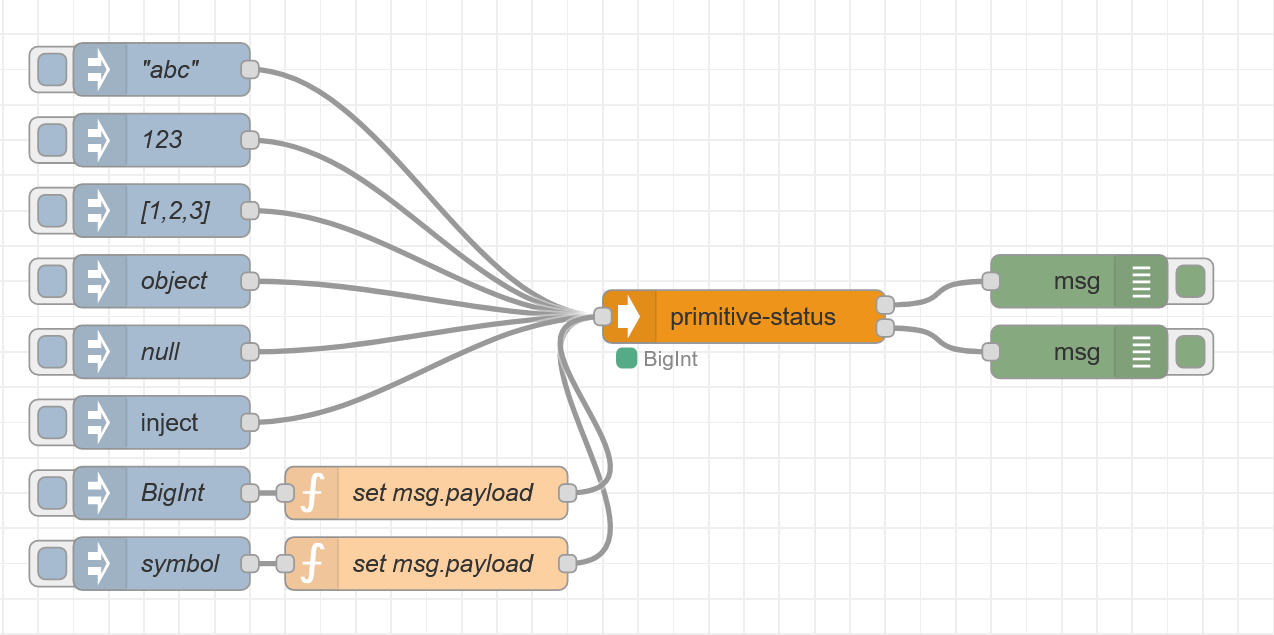
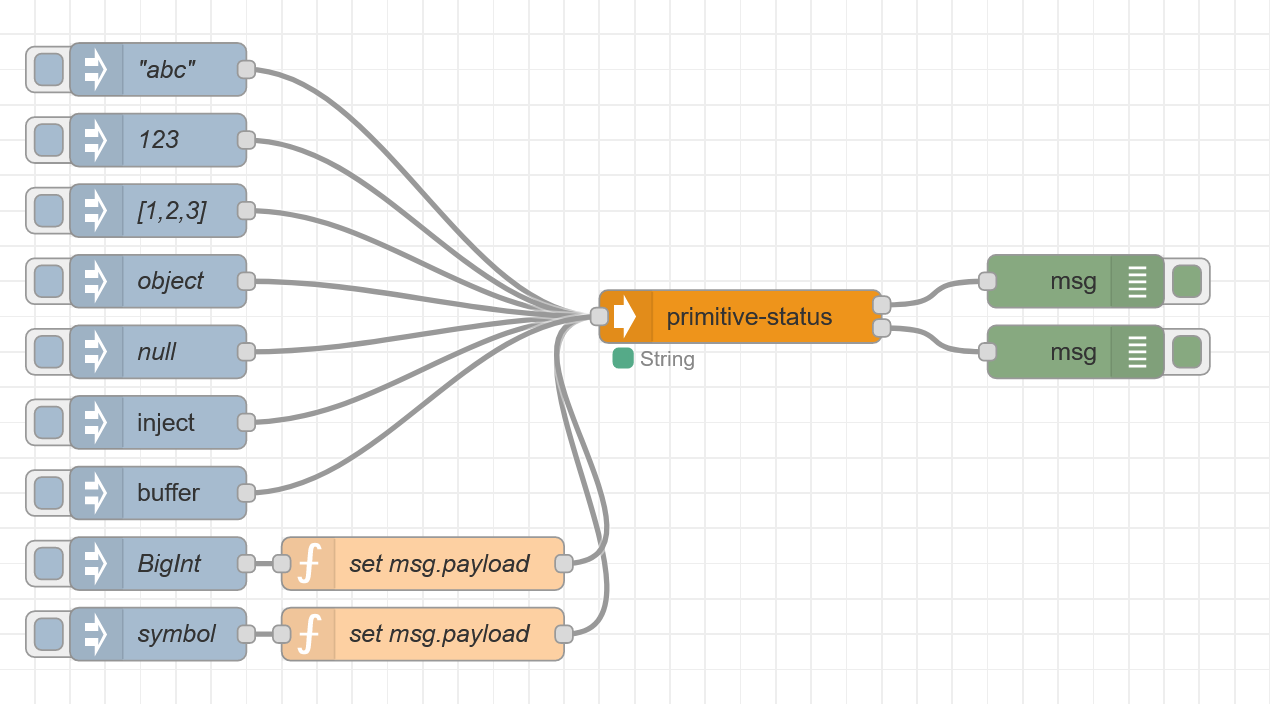
Update to version 1.0.1
Added support for the data type buffer, even though it is not a primitive. Updated examples to reflect changes.

Changed region(s): [[0.0, 0.0598, 0.952, 0.9575]]

diff --git a/primitive-status.js b/primitive-status.js
@@ -28,8 +28,9 @@ module.exports = function(RED) {
                 if (msg.payload !== null) {
                     if (!Array.isArray(msg.payload)) status = "Object";
                 if (Array.isArray(msg.payload)) status = "Array";
+                if (Buffer.isBuffer(msg.payload)) status = "Buffer";
                 } else {
-                    status = "Null";
+                    status = "Null"
                 };
             };
 
